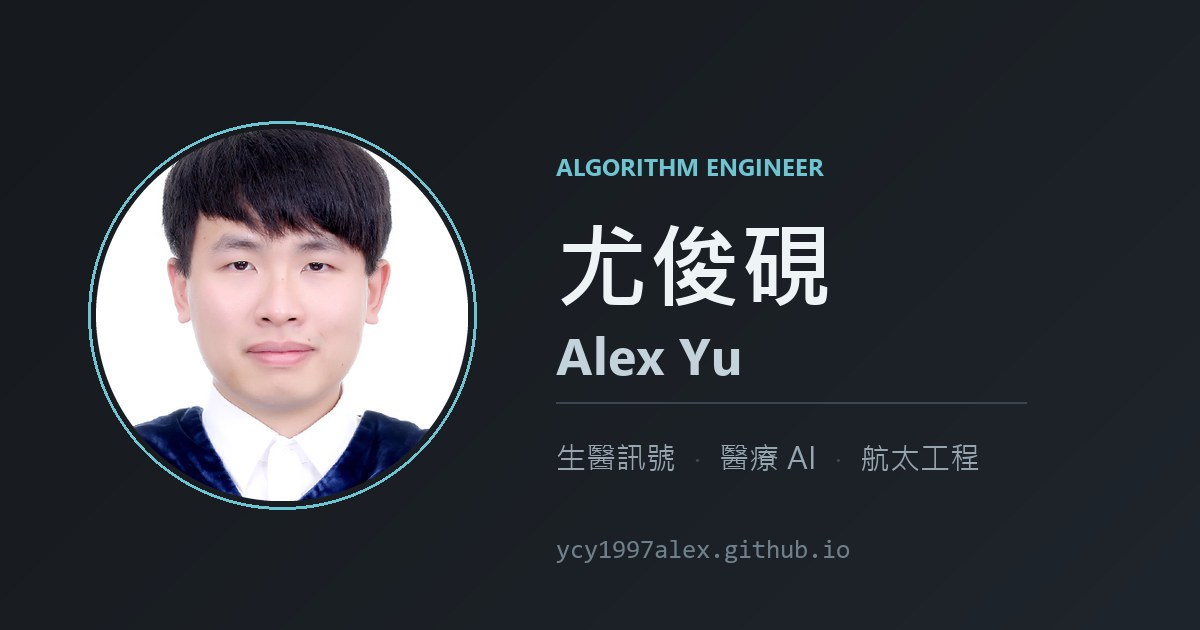
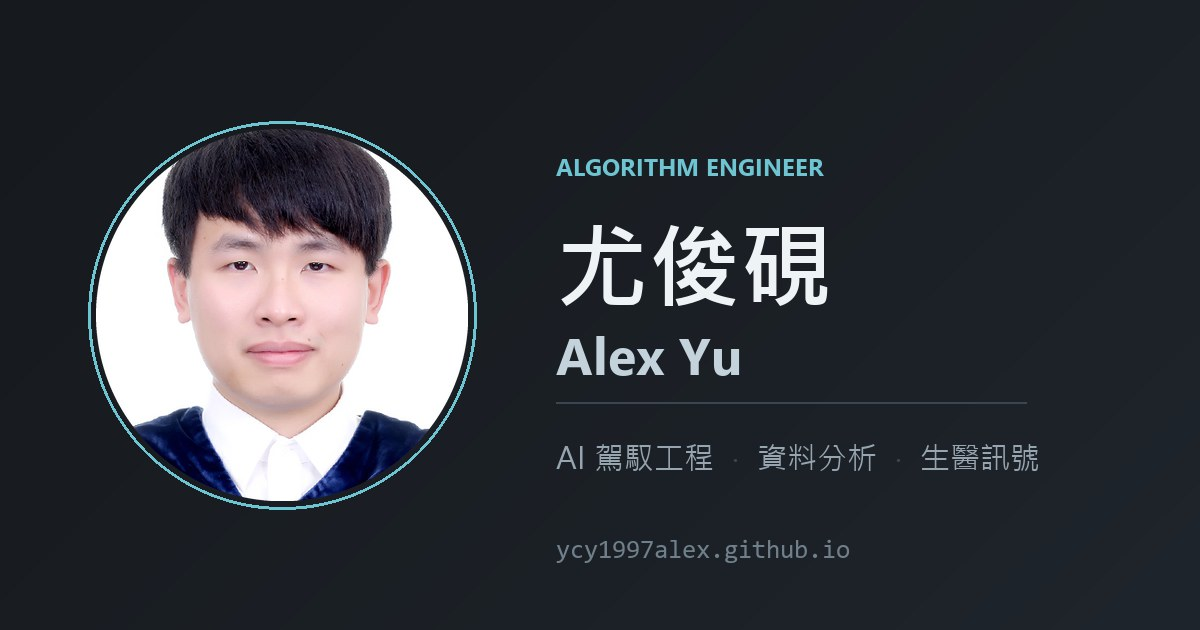
✨ feat(og-card): update share card keywords to new positioning
Replace the keyword line with AI harness engineering, data analysis,
and biomedical signals, and regenerate og-card.jpg.

Changed region(s): [[0.4625, 0.6937, 0.8633, 0.754]]

diff --git a/tools/make_og_card.py b/tools/make_og_card.py
@@ -75,7 +75,7 @@ y += 84
 d.line((x, y, x + 470, y), fill=RULE, width=2)
 y += 34
 
-kws = ["生醫訊號", "醫療 AI", "航太工程"]
+kws = ["AI 駕馭工程", "資料分析", "生醫訊號"]
 cx = x
 for i, k in enumerate(kws):
     if i:
